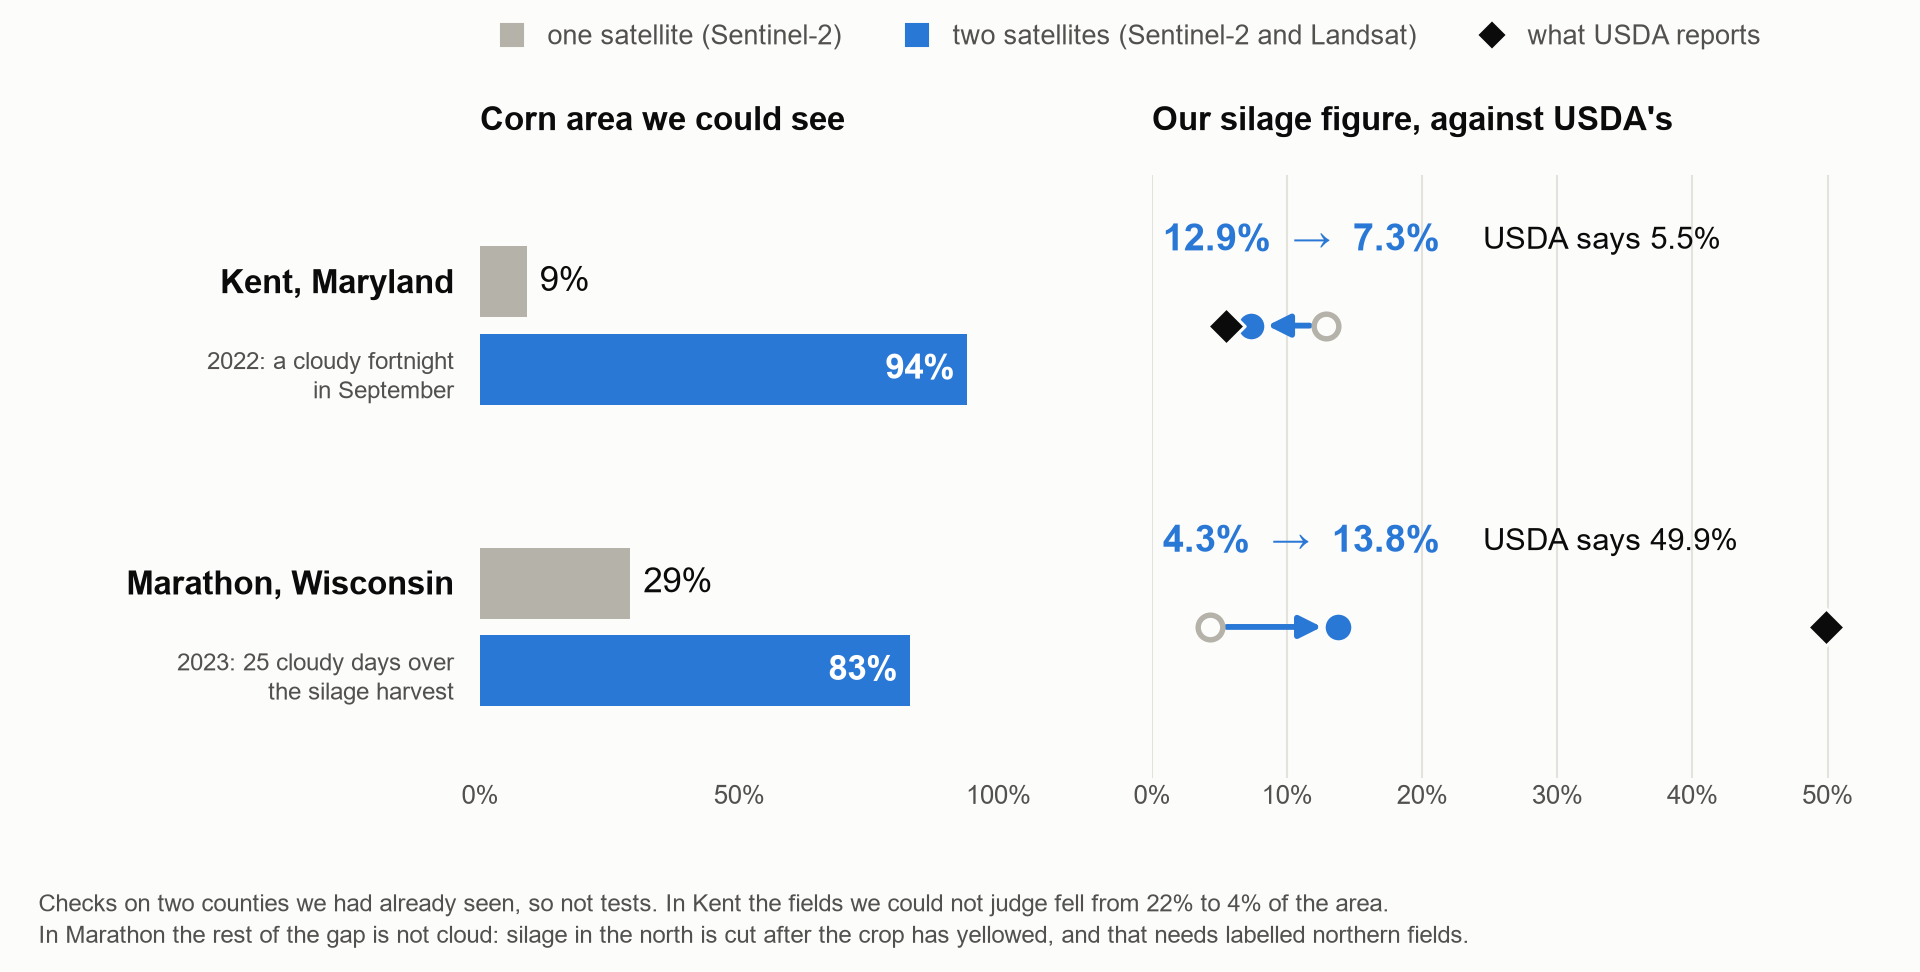
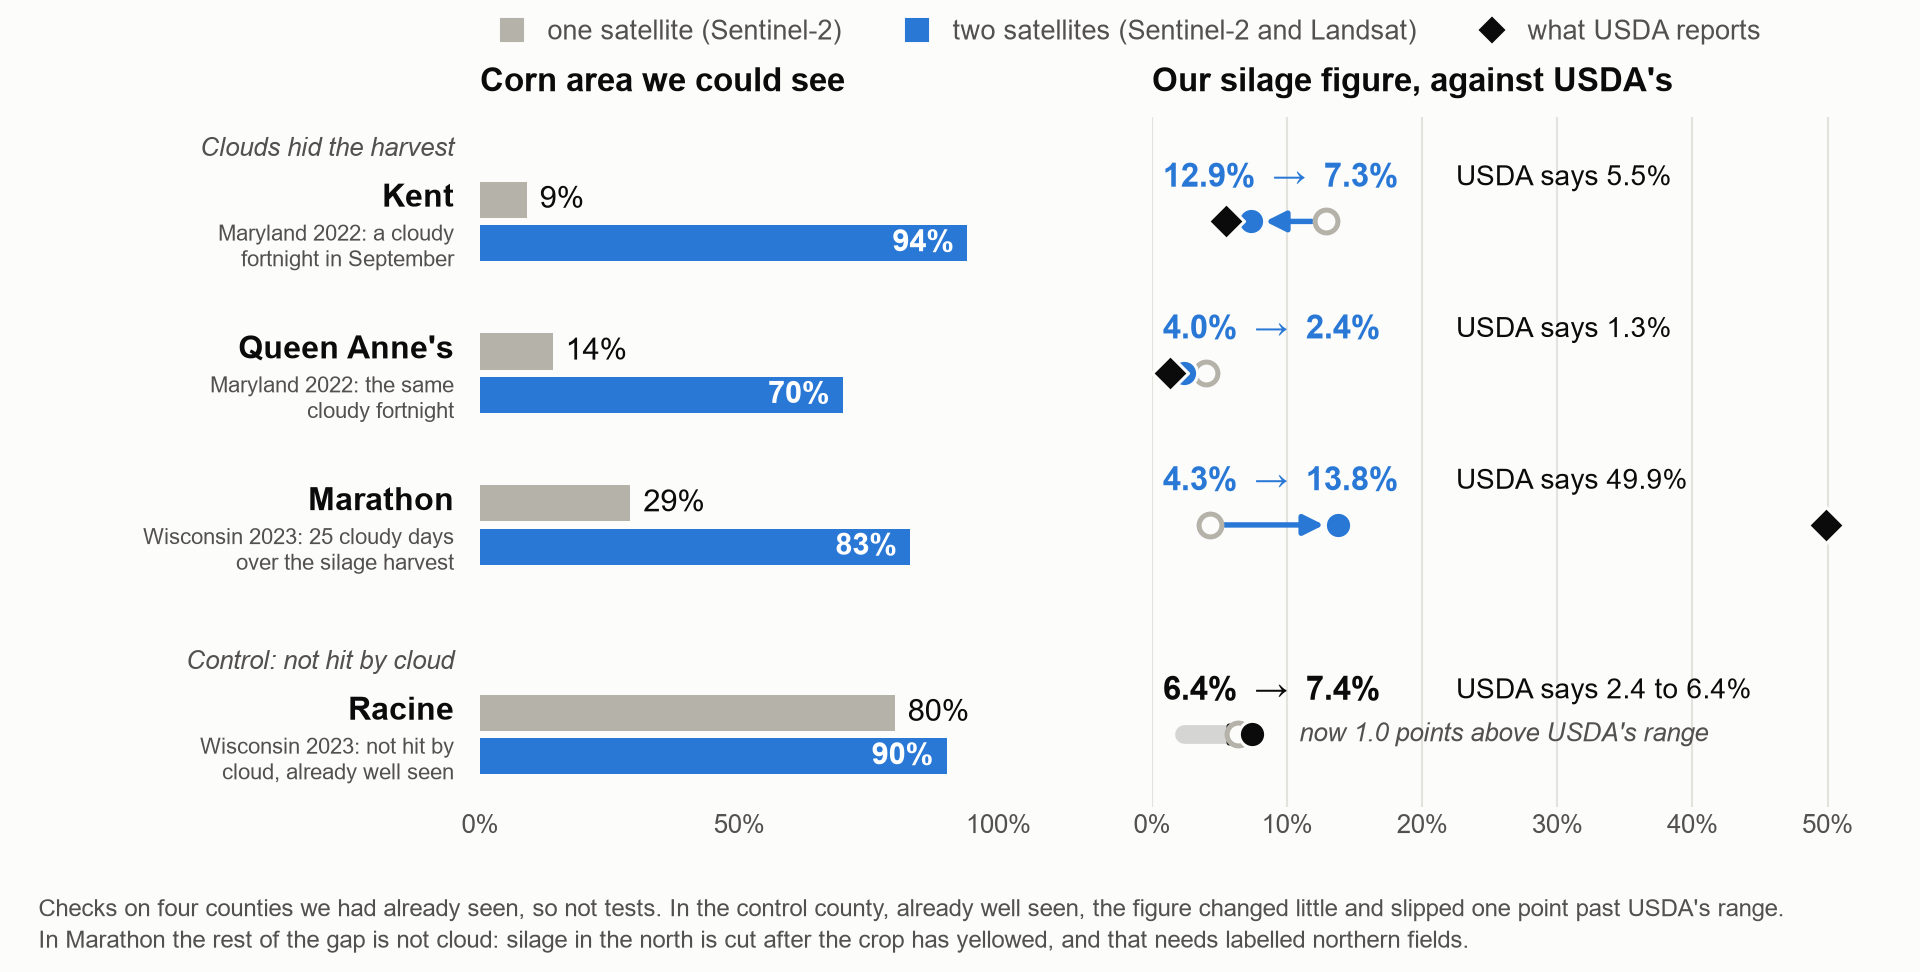
Deck: the second satellite in all three cloudy counties, with Racine as the control row
Queen Anne's (corn seen 14 to 70 percent, figure 4.0 to 2.4, Census 1.3) and Racine (80 to 90 percent, 6.4 to 7.4, official 2.4 to 6.4) join Kent and Marathon. The three cloud-hit counties move towards USDA's figure; the control changes little and ends 1.0 point above its range.

diff --git a/docs/pitch/deck_figs.py b/docs/pitch/deck_figs.py
@@ -219,37 +219,59 @@ def scoreboard():
     put(fig, "s06_scoreboard")
 
 
-# --- a second satellite in the two counties where clouds hid the harvest ---------------------------
+# --- a second satellite in the three counties where clouds hid the harvest, and in a control county
 def landsat_pair():
     rows = N.LANDSAT_PAIR
+    cloudy = [r for r in rows if not r["control"]]
+    control = [r for r in rows if r["control"]]
     fig = body()
-    fig.text(0.25, 0.875, "Corn area we could see", fontsize=16, fontweight="bold", color=INK, va="center")
-    fig.text(0.6, 0.875, "Our silage figure, against USDA's", fontsize=16, fontweight="bold", color=INK, va="center")
-    axl = fig.add_axes([0.25, 0.2, 0.27, 0.62])
-    axr = fig.add_axes([0.6, 0.2, 0.38, 0.62])
+    fig.text(0.25, 0.915, "Corn area we could see", fontsize=16, fontweight="bold", color=INK, va="center")
+    fig.text(0.6, 0.915, "Our silage figure, against USDA's", fontsize=16, fontweight="bold", color=INK, va="center")
+    axl = fig.add_axes([0.25, 0.17, 0.27, 0.71])
+    axr = fig.add_axes([0.6, 0.17, 0.38, 0.71])
     D.clean(axl, grid=None)
     D.clean(axr)
-    n = len(rows)
-    for i, r in enumerate(rows):
-        yc = (n - 1 - i) * 2.2
+    step = 2.1
+    y = step * (len(rows) - 1) + 1.5
+    top = y + 1.45
+    placed = []
+    for group, head in ((cloudy, "Clouds hid the harvest"), (control, "Control: not hit by cloud")):
+        axl.text(-5, y + 1.0, head, ha="right", va="center", fontsize=12.5, color=INK2, style="italic")
+        for r in group:
+            placed.append((y, r))
+            y -= step
+        y -= 0.8
+    for yc, r in placed:
         one, two = r["seen"]
-        axl.barh(yc + 0.32, one, height=0.52, color=GREY, zorder=3)
-        axl.barh(yc - 0.32, two, height=0.52, color=BLUE, zorder=3)
-        axl.text(one + 2.5, yc + 0.32, f"{one}%", va="center", fontsize=17, color=INK)
-        axl.text(two - 2.5, yc - 0.32, f"{two}%", va="center", ha="right", fontsize=17, fontweight="bold", color="#ffffff", zorder=4)
-        axl.text(-5, yc + 0.3, r["name"], ha="right", va="center", fontsize=16, fontweight="bold", color=INK)
-        axl.text(-5, yc - 0.38, r["when"], ha="right", va="center", fontsize=11.5, color=INK2, linespacing=1.3)
+        axl.barh(yc + 0.3, one, height=0.5, color=GREY, zorder=3)
+        axl.barh(yc - 0.3, two, height=0.5, color=BLUE, zorder=3)
+        axl.text(one + 2.5, yc + 0.3, f"{one}%", va="center", fontsize=15, color=INK)
+        axl.text(two - 2.5, yc - 0.3, f"{two}%", va="center", ha="right", fontsize=15, fontweight="bold", color="#ffffff", zorder=4)
+        axl.text(-5, yc + 0.32, r["name"], ha="right", va="center", fontsize=15.5, fontweight="bold", color=INK)
+        axl.text(-5, yc - 0.36, r["when"], ha="right", va="center", fontsize=10.5, color=INK2, linespacing=1.25)
         before, after = r["figure"]
+        usda = r["usda"]
+        if isinstance(usda, tuple):
+            towards = abs(after - min(max(after, usda[0]), usda[1])) < abs(before - min(max(before, usda[0]), usda[1]))
+            axr.plot(usda, [yc, yc], color=INK, lw=9, alpha=0.16, solid_capstyle="round", zorder=1)
+            said = f"USDA says {usda[0]} to {usda[1]}%"
+        else:
+            towards = abs(after - usda) < abs(before - usda)
+            axr.scatter([usda], [yc], s=150, marker="D", color=INK, edgecolors=BG, linewidths=1.5, zorder=6)
+            said = f"USDA says {usda}%"
+        colour = BLUE if towards else INK
         axr.annotate("", xy=(after, yc), xytext=(before, yc), zorder=3,
-                     arrowprops=dict(arrowstyle="-|>", color=BLUE, lw=2.8, mutation_scale=22, shrinkA=8, shrinkB=8))
-        axr.scatter([before], [yc], s=140, facecolors=BG, edgecolors=GREY, linewidths=2.6, zorder=4)
-        axr.scatter([after], [yc], s=190, color=BLUE, edgecolors=BG, linewidths=1.5, zorder=5)
-        axr.scatter([r["usda"]], [yc], s=160, marker="D", color=INK, edgecolors=BG, linewidths=1.5, zorder=6)
-        axr.text(0.8, yc + 0.62, f"{before}%  →  {after}%", fontsize=18, fontweight="bold", color=BLUE, va="center")
-        axr.text(24.5, yc + 0.62, f"USDA says {r['usda']}%", fontsize=15, color=INK, va="center")
-    for ax, top in ((axl, 100), (axr, 54)):
-        ax.set_xlim(0, top)
-        ax.set_ylim(-1.1, (n - 1) * 2.2 + 1.1)
+                     arrowprops=dict(arrowstyle="-|>", color=colour, lw=2.6, mutation_scale=20, shrinkA=7, shrinkB=7))
+        axr.scatter([before], [yc], s=120, facecolors=BG, edgecolors=GREY, linewidths=2.4, zorder=4)
+        axr.scatter([after], [yc], s=160, color=colour, edgecolors=BG, linewidths=1.5, zorder=5)
+        axr.text(0.8, yc + 0.6, f"{before}%  →  {after}%", fontsize=16, fontweight="bold", color=colour, va="center")
+        axr.text(22.5, yc + 0.6, said, fontsize=13.5, color=INK, va="center")
+        if isinstance(usda, tuple) and after > usda[1]:
+            axr.text(after + 3.5, yc, f"now {after - usda[1]:.1f} points above USDA's range", fontsize=12.5, color=INK2,
+                     va="center", style="italic")
+    for ax, right in ((axl, 100), (axr, 54)):
+        ax.set_xlim(0, right)
+        ax.set_ylim(y + 0.8 + step - 1.0, top)
         ax.set_yticks([])
     axl.set_xticks([0, 50, 100])
     axl.set_xticklabels(["0%", "50%", "100%"])
@@ -261,11 +283,10 @@ def landsat_pair():
                    label="two satellites (Sentinel-2 and Landsat)"),
         plt.Line2D([], [], marker="D", ls="", markersize=10, markerfacecolor=INK, markeredgecolor=BG, label="what USDA reports"),
     ]
-    fig.legend(handles=handles, loc="upper left", bbox_to_anchor=(0.24, 1.0), ncol=3, frameon=False, fontsize=13,
+    fig.legend(handles=handles, loc="upper left", bbox_to_anchor=(0.24, 1.005), ncol=3, frameon=False, fontsize=13,
                labelcolor=INK2, handletextpad=0.3, columnspacing=1.8)
-    nj = rows[0]["not_judged"]
-    fig.text(0.02, 0.02, "Checks on two counties we had already seen, so not tests. "
-             f"In Kent the fields we could not judge fell from {nj[0]}% to {nj[1]}% of the area.\n"
+    fig.text(0.02, 0.015, "Checks on four counties we had already seen, so not tests. In the control county, already well seen, "
+             "the figure changed little and slipped one point past USDA's range.\n"
              "In Marathon the rest of the gap is not cloud: silage in the north is cut after the crop has yellowed, "
              "and that needs labelled northern fields.", fontsize=11.5, color=INK2, va="bottom", linespacing=1.4)
     put(fig, "s_landsat")

diff --git a/docs/pitch/build_deck.py b/docs/pitch/build_deck.py
@@ -262,13 +262,13 @@ def build(out):
           "然后我们想办法把它考倒：拿九个地方和美国农业部自己的数字对比。青贮少的地方我们很接近；青贮最多的那个县，我们读错了。")
 
     # 7  a second satellite for the cloudy counties --------------------------------------------------------------
-    s = new_slide(prs, "A second satellite sees past the clouds: in both cloudy counties our figure moved towards USDA's")
+    s = new_slide(prs, "A second satellite sees past the clouds: in the three cloudy counties our figure moved towards USDA's")
     body_picture(s, "s_landsat.png")
-    notes(s, "In two counties, clouds hid the harvest. So we added a second satellite, Landsat. "
-             "In Kent we now see 94 percent of the corn, and our figure moved from 12.9 to 7.3 where USDA says 5.5. "
-             "In Marathon it moved from 4 to 14 where USDA says 50, so that one is only partly fixed.",
-          "有两个县的收割期被云挡住了，所以我们加了第二颗卫星 Landsat。在 Kent 县，现在能看到 94% 的玉米，"
-          "读数从 12.9% 降到 7.3%，美国农业部是 5.5%。在 Marathon 县，读数从 4% 升到 14%，美国农业部是 50%，所以那里只修好了一部分。")
+    notes(s, "In three counties, clouds hid the harvest. So we added a second satellite, Landsat, and in all three our figure "
+             "moved towards USDA's. Kent is almost right now; Marathon is only partly fixed. "
+             "In a fourth county, which clouds did not hit, it changed little.",
+          "有三个县的收割期被云挡住了，所以我们加了第二颗卫星 Landsat，这三个县的读数都向美国农业部的数字靠拢。"
+          "Kent 县现在几乎对了，Marathon 县只修好了一部分。第四个县没有被云影响，读数几乎没变。")
 
     # 8  starting from USDA's last figure ---------------------------------------------------------------------
     s = new_slide(prs, "Start from USDA's last figure: our pictures move six of eight counties closer to the truth")
@@ -354,7 +354,7 @@ def build(out):
          "Free public data, no US labels, about a minute per county on a laptop.", size=16, color=INK, spacing=1.08)
     card(s, MX + half + 0.4, 1.5, half, 3.55)
     text(s, MX + half + 0.8, 1.7, half - 0.8, 0.5, "Next", size=24, bold=True, color=BLUE)
-    text(s, MX + half + 0.8, 2.4, half - 0.8, 2.6, "The second satellite, Landsat, everywhere: it brought two cloud-hidden counties back into view.\n\n"
+    text(s, MX + half + 0.8, 2.4, half - 0.8, 2.6, "The second satellite, Landsat, everywhere: it brought three cloud-hidden counties back into view.\n\n"
          "Labelled fields from northern dairy country, where silage is cut later than in Europe.\n\n"
          "Count the corn sown after a small grain.", size=16, color=INK, spacing=1.08)
     card(s, MX, 5.3, FULL, 1.6, fill=BLUE, line=None)

diff --git a/docs/pitch/pitch_numbers.py b/docs/pitch/pitch_numbers.py
@@ -317,13 +317,17 @@ PLACES_TO_OPEN = [
     ("Lancaster, Pa. 2023", 44.5, (27.4, 54.8), None),
 ]
 
-# The two counties where clouds hid the harvest, with Sentinel-2 alone and with Landsat 8 and 9
-# added: development checks on places already seen, not tests. Kent 2022: log 00:23 (seen 9 -> 94 %,
-# not judged 22 -> 4 % of area, figure 12.9 -> 7.3 %, Census 5.5 %). Marathon 2023: log 23:59 and
-# 00:18 (seen 29 -> 83 %, figure 4.3 -> 13.8 %, survey 49.9 %).
+# Sentinel-2 alone and with Landsat 8 and 9 added, in the three counties where clouds hid the
+# harvest and in one county that was already well seen (the control). Development checks on
+# places already seen, not tests. Kent 2022: log 00:23. Queen Anne's 2022 and Racine 2023: log
+# 00:33. Marathon 2023: log 23:59 and 00:18. "usda" is one figure, or the band of official figures.
 LANDSAT_PAIR = [
-    {"name": "Kent, Maryland", "when": "2022: a cloudy fortnight\nin September", "seen": (9, 94), "figure": (12.9, 7.3),
-     "usda": 5.5, "not_judged": (22, 4)},
-    {"name": "Marathon, Wisconsin", "when": "2023: 25 cloudy days over\nthe silage harvest", "seen": (29, 83), "figure": (4.3, 13.8),
-     "usda": 49.9},
+    {"name": "Kent", "when": "Maryland 2022: a cloudy\nfortnight in September", "seen": (9, 94), "figure": (12.9, 7.3),
+     "usda": 5.5, "control": False},
+    {"name": "Queen Anne's", "when": "Maryland 2022: the same\ncloudy fortnight", "seen": (14, 70), "figure": (4.0, 2.4),
+     "usda": 1.3, "control": False},
+    {"name": "Marathon", "when": "Wisconsin 2023: 25 cloudy days\nover the silage harvest", "seen": (29, 83), "figure": (4.3, 13.8),
+     "usda": 49.9, "control": False},
+    {"name": "Racine", "when": "Wisconsin 2023: not hit by\ncloud, already well seen", "seen": (80, 90), "figure": (6.4, 7.4),
+     "usda": (2.4, 6.4), "control": True},
 ]

diff --git a/docs/pitch/README.md b/docs/pitch/README.md
@@ -73,7 +73,7 @@ and run the script again.
 
 ## The slide deck
 
-The deck itself (a nine-slide story for the judges, then eight backup slides, 16:9, speaker notes
+The deck itself (an eleven-slide story for the judges, then nine backup slides, 16:9, speaker notes
 in English and Chinese on every slide) is built from the same numbers. Earlier versions (16
 slides, ten, twelve) are in this folder's history. The PowerPoint and PDF files are not in git;
 they are made by:
@@ -97,13 +97,15 @@ their process and how it could be developed further"); technical quality 20 % (p
 false positive rate, response time); innovation 20 % ("a new data source or harvest signal");
 feasibility 20 % ("potential to be developed further").
 
-**The story, nine slides.** 1 USDA's own question, with a real field. 2 The catch and the idea: no
+**The story, eleven slides.** 1 USDA's own question, with a real field. 2 The catch and the idea: no
 US labels, so learn from European farm registries (the new data source). 3 The signal, in real
 pictures: silage is cut green and wet (the harvest signal). 4 How it works in three plain steps,
 and the rule that a hidden harvest is not guessed. 5 The test on USDA's 44 labelled fields, with
 the rubric's four measures. 6 The scoreboard: nine places against USDA, close where silage is
-rare, a miss where it is everywhere. 7 A second satellite, Landsat, in the two counties where
-clouds hid the harvest: both figures move towards USDA's (the second new data source). 8 Starting
+rare, a miss where it is everywhere. 7 A second satellite, Landsat, in the three counties where
+clouds hid the harvest: all three figures move towards USDA's; in a fourth county that was already
+well seen the figure changes little and slips one point past USDA's range (the second new data
+source). 8 Starting
 from USDA's last figure, the pictures move six of eight counties closer to the truth (the value;
 counties seen while tuning, so not a test). 9 What went wrong on the way and what it taught us
 (the process). 10 Where the model sits in the team's system. 11 What USDA gets today, what comes
